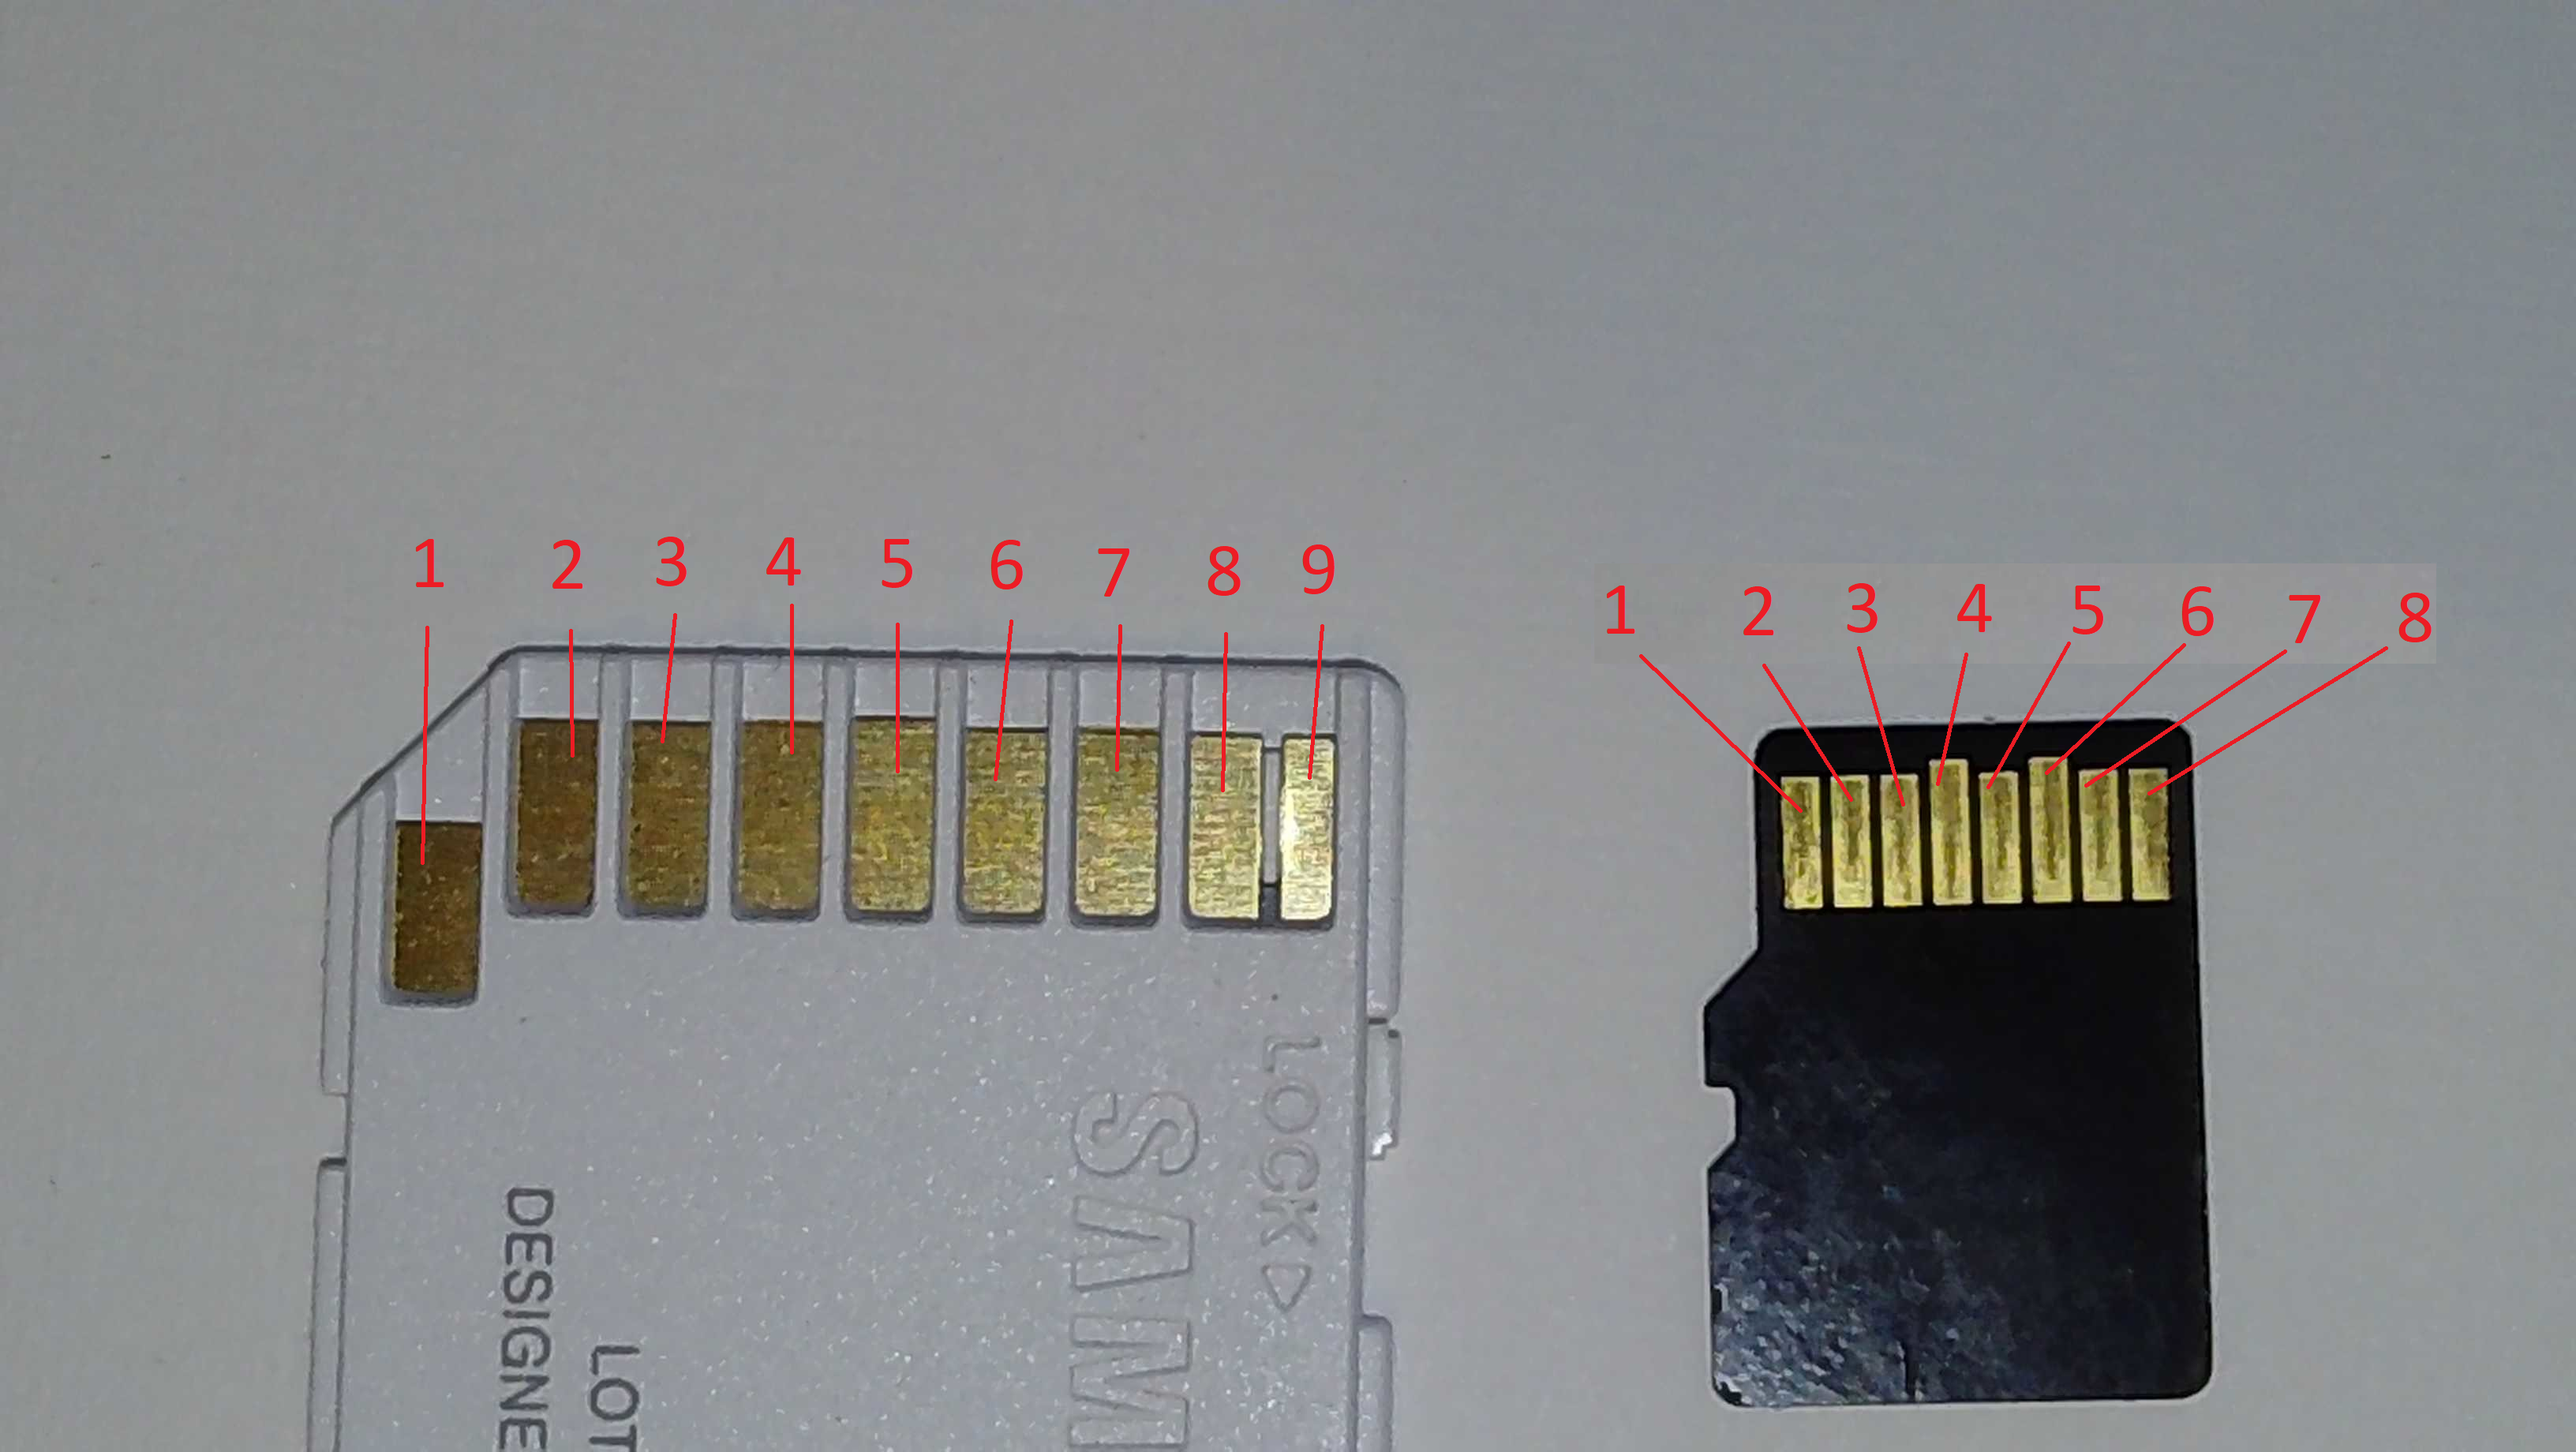
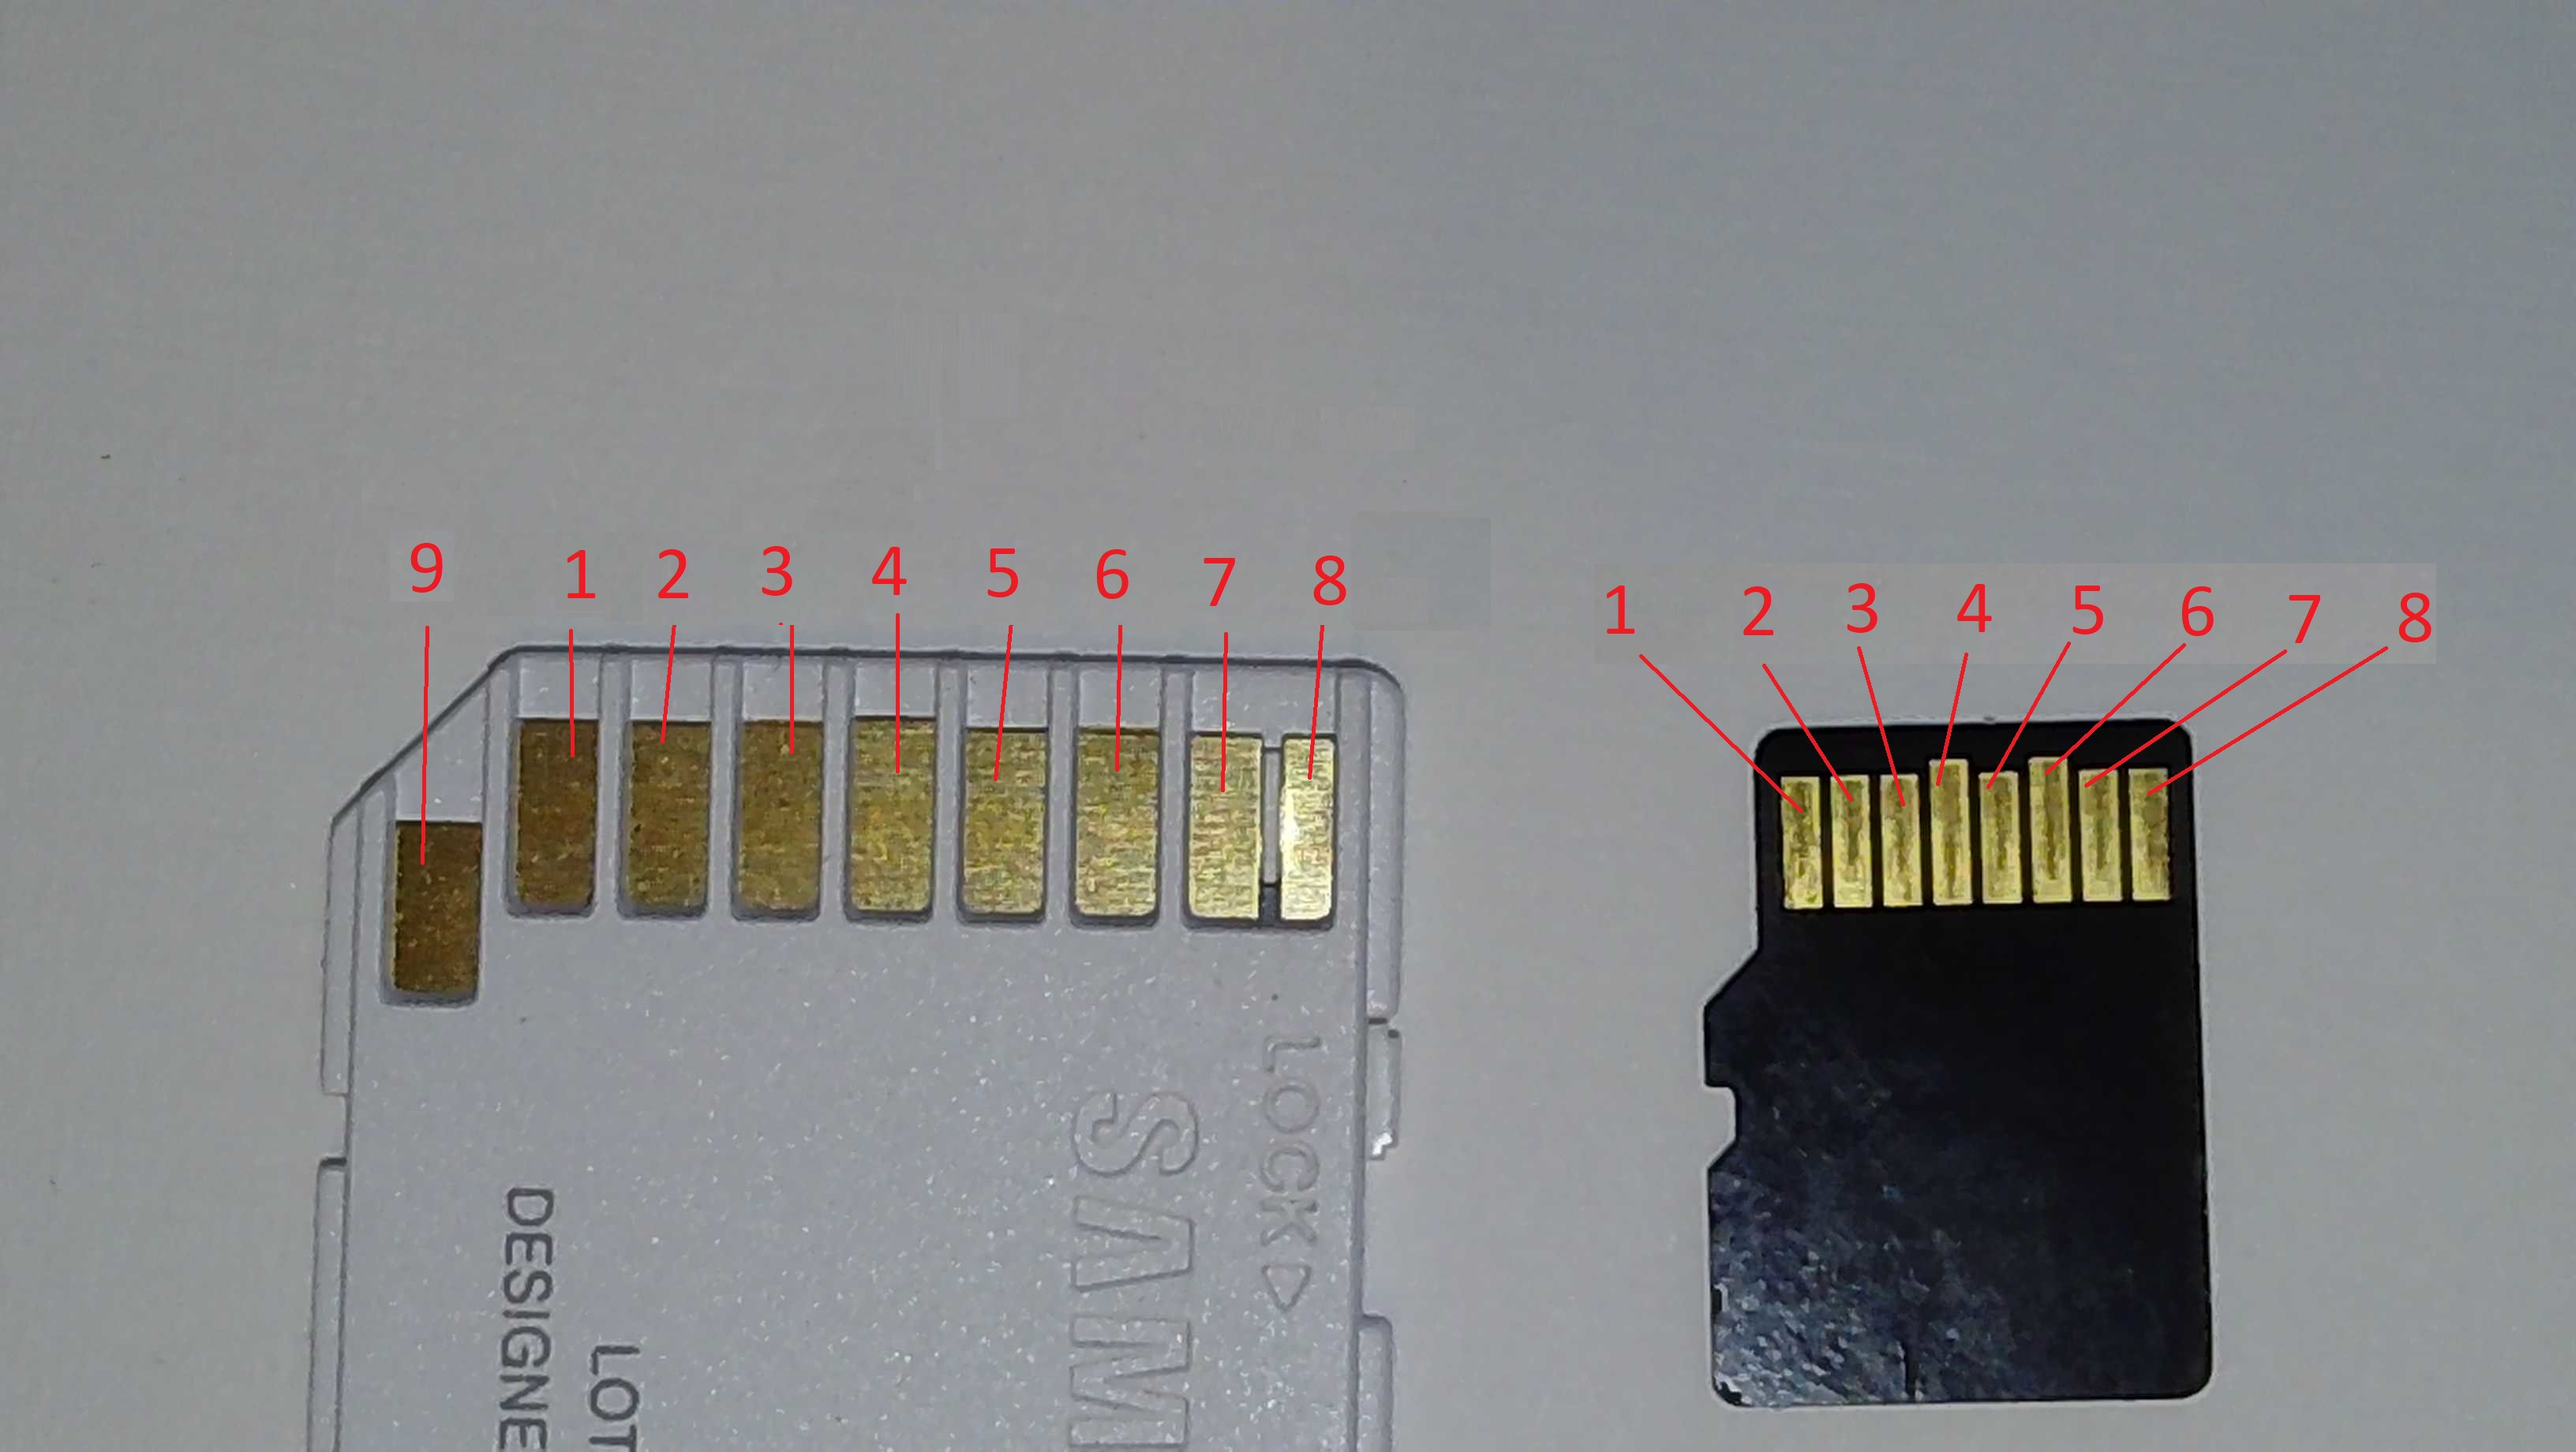
fixed sd card image

diff --git a/_9_storage/_9_11_SD_SPI/README.md b/_9_storage/_9_11_SD_SPI/README.md
@@ -1,29 +1,28 @@
-![sd pinout](sd%20card%20numbers.png)
+![sd pinout](https://raw.githubusercontent.com/Mair/esp32-course/master/_9_storage/_9_11_SD_SPI/sd%20card%20numbers.png)
 
 SD
 
-| Pin |  SD MMC |     SPI    |
-|:---:|:-------:|:----------:|
-|  1  | CC/DAT3 |     CS     |
-|  2  |   CMD   | D1 / MOSI  |
-|  3  |   VSS1  |    VSS1    |
-|  4  |   VDD   |     VDD    |
-|  5  |   CLK   |     CLK    |
-|  6  |   VSS2  |    VSS2    |
-|  7  |   DAT0  |  DO / MISO |
-|  8  |   DAT1  |      X     |
-|  9  |   DAT2  |      X     |
+| Pin | SD MMC  |    SPI    |
+| :-: | :-----: | :-------: |
+|  1  | CC/DAT3 |    CS     |
+|  2  |   CMD   | D1 / MOSI |
+|  3  |  VSS1   |   VSS1    |
+|  4  |   VDD   |    VDD    |
+|  5  |   CLK   |    CLK    |
+|  6  |  VSS2   |   VSS2    |
+|  7  |  DAT0   | DO / MISO |
+|  8  |  DAT1   |     X     |
+|  9  |  DAT2   |     X     |
 
 Micro SD
 
-| Pin |  SD MMC |     SPI    |
-|:---:|:-------:|:----------:|
-|  1  |   DAT2  |      x     |
-|  2  | CC/DAT3 |     CS     |
-|  3  |   CMD   | D1 / MOSI  |
-|  4  |   VDD   |     VDD    |
-|  5  |   CLK   |     CLK    |
-|  6  |   VSS   |     VSS    |
-|  7  |   DAT0  |  DO / MISO |
-|  8  |   DAT1  |      x     |
-
+| Pin | SD MMC  |    SPI    |
+| :-: | :-----: | :-------: |
+|  1  |  DAT2   |     x     |
+|  2  | CC/DAT3 |    CS     |
+|  3  |   CMD   | D1 / MOSI |
+|  4  |   VDD   |    VDD    |
+|  5  |   CLK   |    CLK    |
+|  6  |   VSS   |    VSS    |
+|  7  |  DAT0   | DO / MISO |
+|  8  |  DAT1   |     x     |
